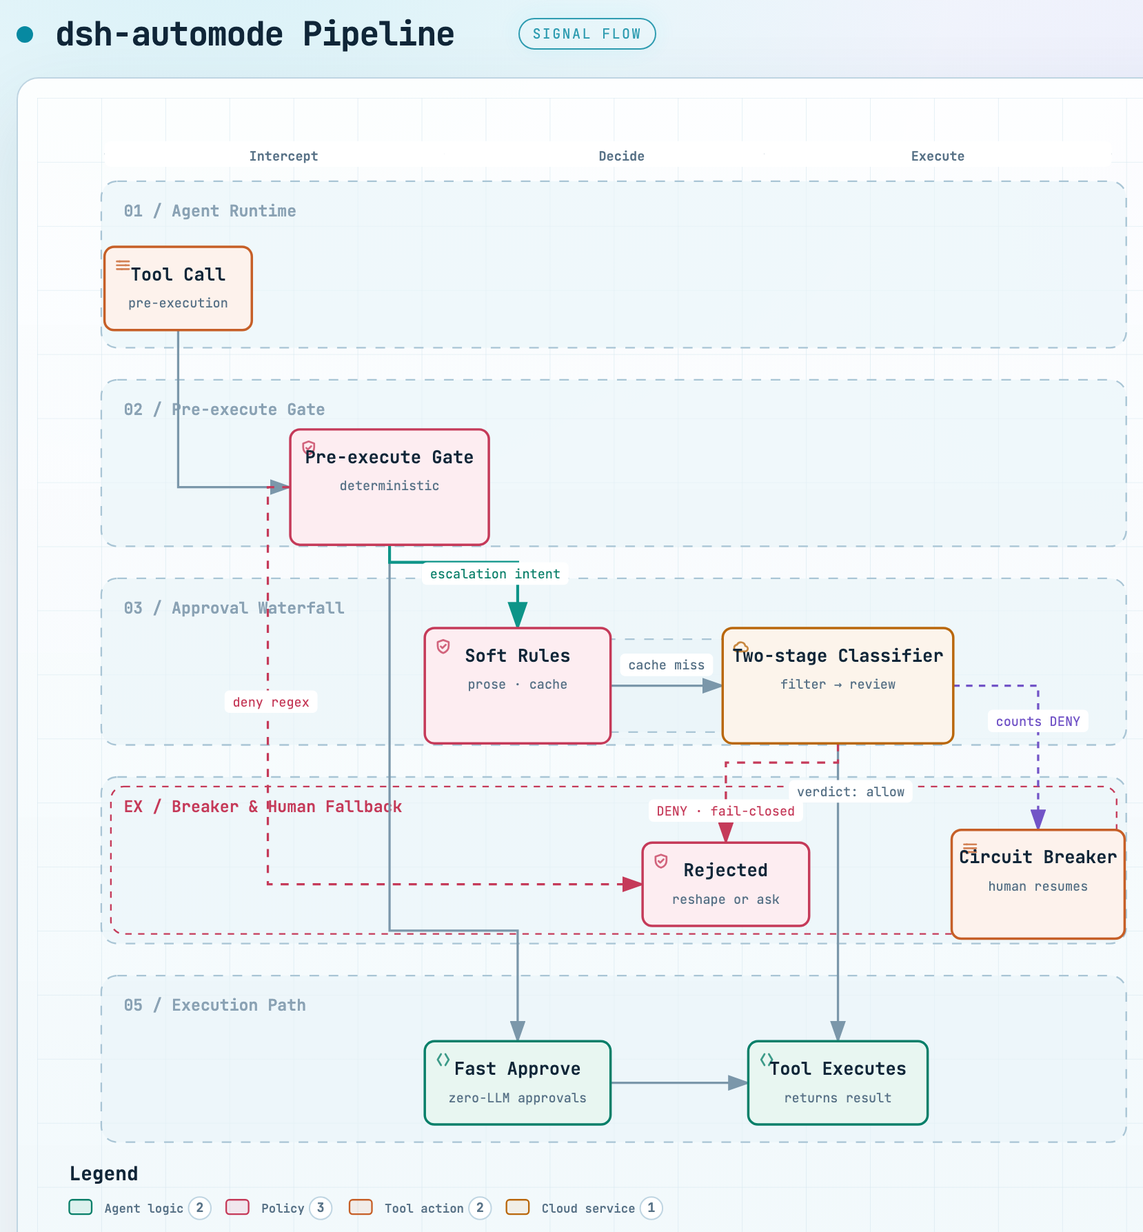
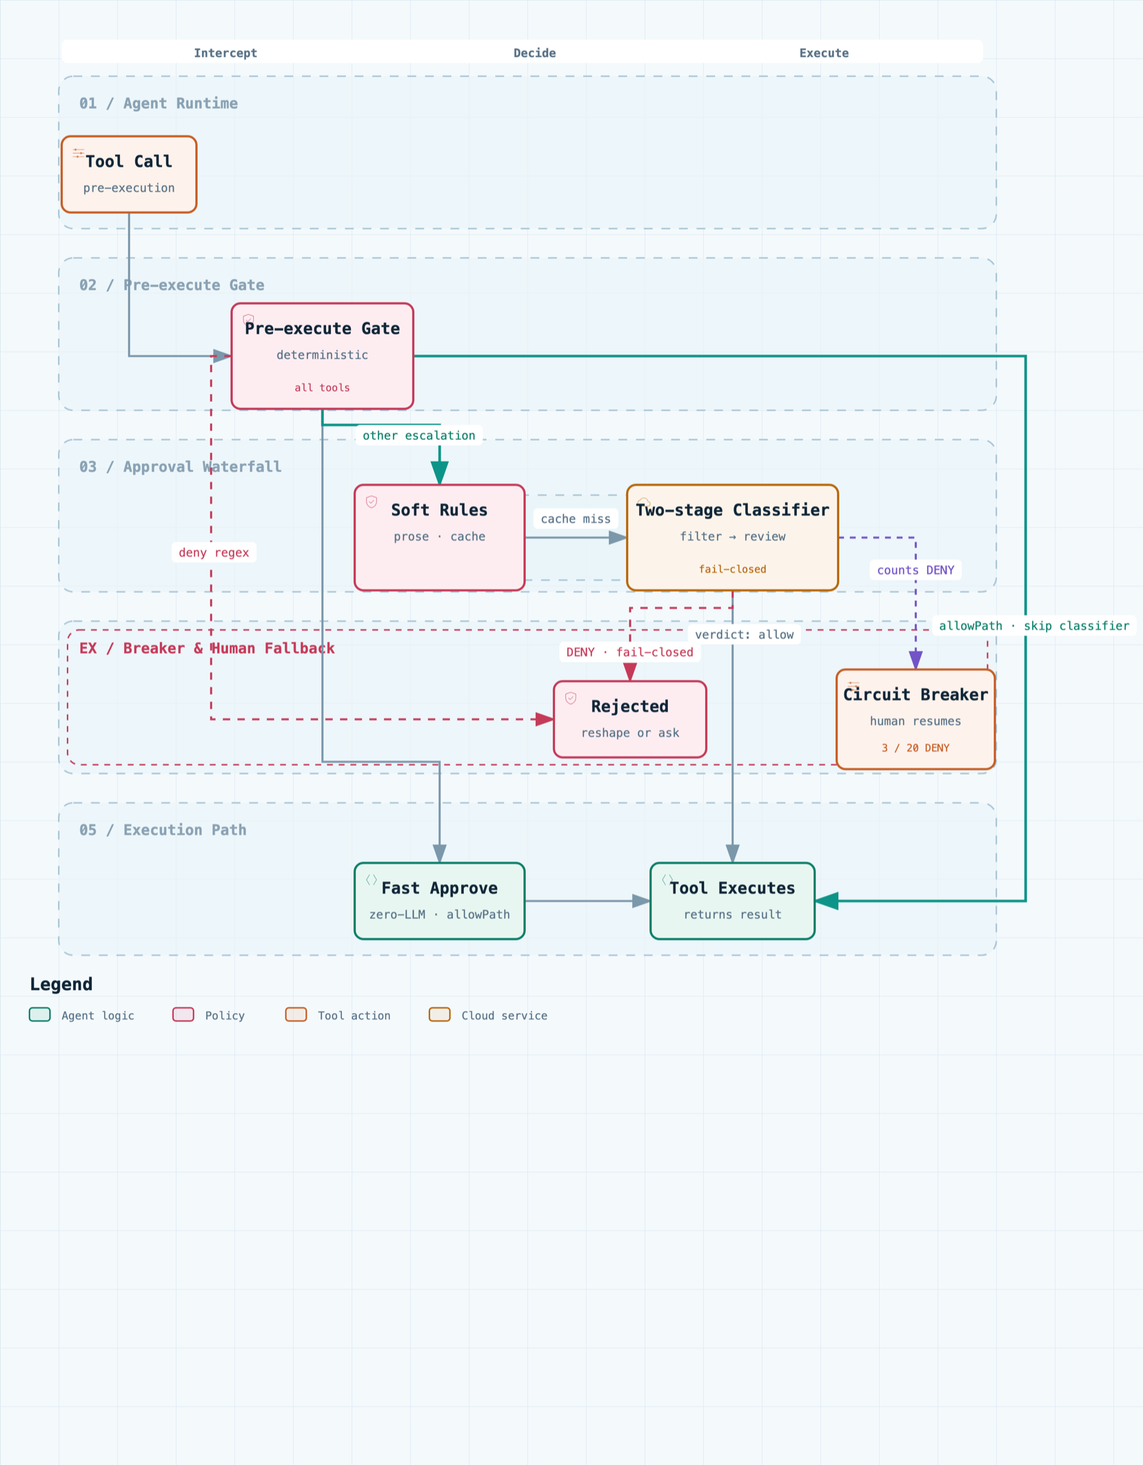
docs: update pipeline diagram for allowPath fast-path + v0.10.0 approval bridge
The flow diagram only showed "escalation intent -> Soft Rules -> Classifier",
implying every escalation reaches the LLM. Since allowPaths (08-29) and the
v0.10.0 approval bridge (08-31), allowlisted targets skip the classifier
entirely (file ops + bash writes), and allowPath escalations are auto-granted
by the approval answerer (approval-bridge) with no classifier and no
confirmation.

- detallow sublabel now reads "zero-LLM · allowPath".
- escalate edge relabeled "other escalation" (non-allowlisted escalations).
- new right-margin emphasis edge gate -> execute labeled
  "allowPath · skip classifier" (routed around the outside, bypassing the
  LLM verdict pipeline).
- cards document allowPath full-trust and the v0.10.0 callId bridge.
- en + zh workflow.json updated; HTML re-delivered (archify showcase 9/9,
  0 errors/warnings) and PNG re-exported via the page's own rasterizer.

Note: vertical page overflow in visual-check is pre-existing (the original
780x1000 composition overflows every laptop viewport the same way); the
diagram itself validates cleanly.

diff --git a/docs/auto-mode-flow.html b/docs/auto-mode-flow.html
@@ -4981,12 +4981,13 @@
         <path data-edge-from="toolcall" data-edge-to="gate" data-edge-key="0" data-edge-id="intercept" data-composition-points="88,145;88,243;158,243" d="M 88 145 L 88 243 L 158 243" class="a-default" stroke-width="1.4" marker-end="url(#arrowhead)"/>
         <path data-edge-from="gate" data-edge-to="detallow" data-edge-key="1" data-edge-id="fastpath" data-composition-points="220,279;220,520;300,520;300,589" d="M 220 279 L 220 520 L 300 520 L 300 589" class="a-default" stroke-width="1.4" marker-end="url(#arrowhead)"/>
         <path data-edge-from="detallow" data-edge-to="execute" data-edge-key="2" data-edge-id="torun" data-composition-points="358,615;444,615" d="M 358 615 L 444 615" class="a-default" stroke-width="1.4" marker-end="url(#arrowhead)"/>
-        <path data-edge-from="gate" data-edge-to="softrules" data-edge-label="escalation intent" data-edge-key="3" data-edge-id="escalate" data-composition-points="220,279;220,290;300,290;300,331" d="M 220 279 L 220 290 L 300 290 L 300 331" class="a-emphasis" stroke-width="1.8" marker-end="url(#arrowhead-emphasis)"/>
-        <path data-edge-from="gate" data-edge-to="rejected" data-edge-label="deny regex" data-edge-key="4" data-edge-id="harddeny" data-composition-points="158,243;144,243;144,491;378,491" d="M 158 243 L 144 243 L 144 491 L 378 491" class="a-security" stroke-width="1.4" marker-end="url(#arrowhead-security)"/>
-        <path data-edge-from="softrules" data-edge-to="classifier" data-edge-label="cache miss" data-edge-key="5" data-edge-id="review" data-composition-points="358,367;428,367" d="M 358 367 L 428 367" class="a-default" stroke-width="1.4" marker-end="url(#arrowhead)"/>
-        <path data-edge-from="classifier" data-edge-to="execute" data-edge-label="verdict: allow" data-edge-key="6" data-edge-id="allowed" data-composition-points="500,403;500,476;500,476;500,589" d="M 500 403 L 500 476 L 500 476 L 500 589" class="a-default" stroke-width="1.4" marker-end="url(#arrowhead)"/>
-        <path data-edge-from="classifier" data-edge-to="rejected" data-edge-label="DENY · fail-closed" data-edge-key="7" data-edge-id="denied" data-composition-points="500,403;500,415;430,415;430,465" d="M 500 403 L 500 415 L 430 415 L 430 465" class="a-security" stroke-width="1.4" marker-end="url(#arrowhead-security)"/>
-        <path data-edge-from="classifier" data-edge-to="breaker" data-edge-label="counts DENY" data-edge-key="8" data-edge-id="countdeny" data-composition-points="572,367;625,367;625,437;625,457" d="M 572 367 L 625 367 L 625 437 L 625 457" class="a-dashed" stroke-width="1.4" marker-end="url(#arrowhead-dashed)"/>
+        <path data-edge-from="gate" data-edge-to="softrules" data-edge-label="other escalation" data-edge-key="3" data-edge-id="escalate" data-composition-points="220,279;220,290;300,290;300,331" d="M 220 279 L 220 290 L 300 290 L 300 331" class="a-emphasis" stroke-width="1.8" marker-end="url(#arrowhead-emphasis)"/>
+        <path data-edge-from="gate" data-edge-to="execute" data-edge-label="allowPath · skip classifier" data-edge-key="4" data-edge-id="allowesc" data-composition-points="282,243;700,243;700,615;556,615" d="M 282 243 L 700 243 L 700 615 L 556 615" class="a-emphasis" stroke-width="1.8" marker-end="url(#arrowhead-emphasis)"/>
+        <path data-edge-from="gate" data-edge-to="rejected" data-edge-label="deny regex" data-edge-key="5" data-edge-id="harddeny" data-composition-points="158,243;144,243;144,491;378,491" d="M 158 243 L 144 243 L 144 491 L 378 491" class="a-security" stroke-width="1.4" marker-end="url(#arrowhead-security)"/>
+        <path data-edge-from="softrules" data-edge-to="classifier" data-edge-label="cache miss" data-edge-key="6" data-edge-id="review" data-composition-points="358,367;428,367" d="M 358 367 L 428 367" class="a-default" stroke-width="1.4" marker-end="url(#arrowhead)"/>
+        <path data-edge-from="classifier" data-edge-to="execute" data-edge-label="verdict: allow" data-edge-key="7" data-edge-id="allowed" data-composition-points="500,403;500,476;500,476;500,589" d="M 500 403 L 500 476 L 500 476 L 500 589" class="a-default" stroke-width="1.4" marker-end="url(#arrowhead)"/>
+        <path data-edge-from="classifier" data-edge-to="rejected" data-edge-label="DENY · fail-closed" data-edge-key="8" data-edge-id="denied" data-composition-points="500,403;500,415;430,415;430,465" d="M 500 403 L 500 415 L 430 415 L 430 465" class="a-security" stroke-width="1.4" marker-end="url(#arrowhead-security)"/>
+        <path data-edge-from="classifier" data-edge-to="breaker" data-edge-label="counts DENY" data-edge-key="9" data-edge-id="countdeny" data-composition-points="572,367;625,367;625,437;625,457" d="M 572 367 L 625 367 L 625 437 L 625 457" class="a-dashed" stroke-width="1.4" marker-end="url(#arrowhead-dashed)"/>
 
         <!-- Nodes -->
         <g id="node-toolcall" data-node-id="toolcall" data-node-label="Tool Call" tabindex="0" role="button" aria-label="Focus Tool Call, pre-execution, Agent Runtime › Intercept" aria-pressed="false" data-node-kind="messagebus" data-node-sublabel="pre-execution" data-node-context="Agent Runtime › Intercept">
@@ -5067,15 +5068,15 @@
         <text data-detail="fine" x="625" y="513" class="t-messagebus" font-size="7" text-anchor="middle">3 / 20 DENY</text>
         </g>
 
-        <g id="node-detallow" data-node-id="detallow" data-node-label="Fast Approve" tabindex="0" role="button" aria-label="Focus Fast Approve, zero-LLM approvals, Execution Path › Decide" aria-pressed="false" data-node-kind="backend" data-node-sublabel="zero-LLM approvals" data-node-context="Execution Path › Decide">
-          <title>Fast Approve · zero-LLM approvals · Execution Path › Decide</title>
+        <g id="node-detallow" data-node-id="detallow" data-node-label="Fast Approve" tabindex="0" role="button" aria-label="Focus Fast Approve, zero-LLM · allowPath, Execution Path › Decide" aria-pressed="false" data-node-kind="backend" data-node-sublabel="zero-LLM · allowPath" data-node-context="Execution Path › Decide">
+          <title>Fast Approve · zero-LLM · allowPath · Execution Path › Decide</title>
           <rect x="242" y="589" width="116" height="52" rx="6" class="c-mask"/>
           <rect x="242" y="589" width="116" height="52" rx="6" class="c-backend" stroke-width="1.5"/>
           <g aria-hidden="true" data-semantic-sigil="backend" class="semantic-sigil s-backend" transform="translate(248 595) scale(0.6875)">
             <path d="M6 3 3 8l3 5M10 3l3 5-3 5"/>
           </g>
           <text data-node-label data-detail-anchor x="300" y="610" class="t-primary" font-size="11" font-weight="600" text-anchor="middle">Fast Approve</text>
-          <text data-detail="context" x="300" y="627" class="t-muted" font-size="8" text-anchor="middle">zero-LLM approvals</text>
+          <text data-detail="context" x="300" y="627" class="t-muted" font-size="8" text-anchor="middle">zero-LLM · allowPath</text>
         </g>
 
         <g id="node-execute" data-node-id="execute" data-node-label="Tool Executes" tabindex="0" role="button" aria-label="Focus Tool Executes, returns result, Execution Path › Execute" aria-pressed="false" data-node-kind="backend" data-node-sublabel="returns result" data-node-context="Execution Path › Execute">
@@ -5093,27 +5094,31 @@
 
 
 
-        <g data-detail="context" data-edge-from="gate" data-edge-to="softrules" data-edge-label="escalation intent" data-edge-key="3" data-edge-id="escalate">
-          <rect x="240.2" y="290" width="91.6" height="14" rx="3" class="c-mask"/>
-          <text x="286" y="300" class="t-backend" font-size="8" text-anchor="middle">escalation intent</text>
+        <g data-detail="context" data-edge-from="gate" data-edge-to="softrules" data-edge-label="other escalation" data-edge-key="3" data-edge-id="escalate">
+          <rect x="242.6" y="290" width="86.8" height="14" rx="3" class="c-mask"/>
+          <text x="286" y="300" class="t-backend" font-size="8" text-anchor="middle">other escalation</text>
         </g>
-        <g data-detail="context" data-edge-from="gate" data-edge-to="rejected" data-edge-label="deny regex" data-edge-key="4" data-edge-id="harddeny">
+        <g data-detail="context" data-edge-from="gate" data-edge-to="execute" data-edge-label="allowPath · skip classifier" data-edge-key="4" data-edge-id="allowesc">
+          <rect x="636.2" y="420" width="139.6" height="14" rx="3" class="c-mask"/>
+          <text x="706" y="430" class="t-backend" font-size="8" text-anchor="middle">allowPath · skip classifier</text>
+        </g>
+        <g data-detail="context" data-edge-from="gate" data-edge-to="rejected" data-edge-label="deny regex" data-edge-key="5" data-edge-id="harddeny">
           <rect x="117" y="370" width="58" height="14" rx="3" class="c-mask"/>
           <text x="146" y="380" class="t-security" font-size="8" text-anchor="middle">deny regex</text>
         </g>
-        <g data-detail="context" data-edge-from="softrules" data-edge-to="classifier" data-edge-label="cache miss" data-edge-key="5" data-edge-id="review">
+        <g data-detail="context" data-edge-from="softrules" data-edge-to="classifier" data-edge-label="cache miss" data-edge-key="6" data-edge-id="review">
           <rect x="364" y="347" width="58" height="14" rx="3" class="c-mask"/>
           <text x="393" y="357" class="t-muted" font-size="8" text-anchor="middle">cache miss</text>
         </g>
-        <g data-detail="context" data-edge-from="classifier" data-edge-to="execute" data-edge-label="verdict: allow" data-edge-key="6" data-edge-id="allowed">
+        <g data-detail="context" data-edge-from="classifier" data-edge-to="execute" data-edge-label="verdict: allow" data-edge-key="7" data-edge-id="allowed">
           <rect x="469.4" y="426" width="77.2" height="14" rx="3" class="c-mask"/>
           <text x="508" y="436" class="t-muted" font-size="8" text-anchor="middle">verdict: allow</text>
         </g>
-        <g data-detail="context" data-edge-from="classifier" data-edge-to="rejected" data-edge-label="DENY · fail-closed" data-edge-key="7" data-edge-id="denied">
+        <g data-detail="context" data-edge-from="classifier" data-edge-to="rejected" data-edge-label="DENY · fail-closed" data-edge-key="8" data-edge-id="denied">
           <rect x="381.8" y="438" width="96.39999999999999" height="14" rx="3" class="c-mask"/>
           <text x="430" y="448" class="t-security" font-size="8" text-anchor="middle">DENY · fail-closed</text>
         </g>
-        <g data-detail="context" data-edge-from="classifier" data-edge-to="breaker" data-edge-label="counts DENY" data-edge-key="8" data-edge-id="countdeny">
+        <g data-detail="context" data-edge-from="classifier" data-edge-to="breaker" data-edge-label="counts DENY" data-edge-key="9" data-edge-id="countdeny">
           <rect x="593.6" y="382" width="62.8" height="14" rx="3" class="c-mask"/>
           <text x="625" y="392" class="t-database" font-size="8" text-anchor="middle">counts DENY</text>
         </g>
@@ -5331,6 +5336,8 @@
           <li>&bull; Deny regexes hard-reject before any LLM call</li>
           <li>&bull; Allow prefix-globs approve with zero LLM cost</li>
           <li>&bull; Fast Approve = read-only tools, allow globs, in-tree ops</li>
+          <li>&bull; Targets inside config.allowPaths (file ops + bash write-commands) skip the classifier entirely</li>
+          <li>&bull; v0.10.0: allowPath escalations are auto-granted by the approval answerer via the call&#39;s callId (approval-bridge) — no classifier, no confirmation</li>
           <li>&bull; Unmatched non-escalating calls pass through to the DSH sandbox</li>
         </ul>
       </div>

diff --git a/docs/auto-mode-flow.zh.html b/docs/auto-mode-flow.zh.html
@@ -4981,12 +4981,13 @@
         <path data-edge-from="toolcall" data-edge-to="gate" data-edge-key="0" data-edge-id="intercept" data-composition-points="88,145;88,243;158,243" d="M 88 145 L 88 243 L 158 243" class="a-default" stroke-width="1.4" marker-end="url(#arrowhead)"/>
         <path data-edge-from="gate" data-edge-to="detallow" data-edge-key="1" data-edge-id="fastpath" data-composition-points="220,279;220,520;300,520;300,589" d="M 220 279 L 220 520 L 300 520 L 300 589" class="a-default" stroke-width="1.4" marker-end="url(#arrowhead)"/>
         <path data-edge-from="detallow" data-edge-to="execute" data-edge-key="2" data-edge-id="torun" data-composition-points="358,615;444,615" d="M 358 615 L 444 615" class="a-default" stroke-width="1.4" marker-end="url(#arrowhead)"/>
-        <path data-edge-from="gate" data-edge-to="softrules" data-edge-label="升级意图" data-edge-key="3" data-edge-id="escalate" data-composition-points="220,279;220,290;300,290;300,331" d="M 220 279 L 220 290 L 300 290 L 300 331" class="a-emphasis" stroke-width="1.8" marker-end="url(#arrowhead-emphasis)"/>
-        <path data-edge-from="gate" data-edge-to="rejected" data-edge-label="命中 deny 正则" data-edge-key="4" data-edge-id="harddeny" data-composition-points="158,243;144,243;144,491;374,491" d="M 158 243 L 144 243 L 144 491 L 374 491" class="a-security" stroke-width="1.4" marker-end="url(#arrowhead-security)"/>
-        <path data-edge-from="softrules" data-edge-to="classifier" data-edge-label="缓存未命中" data-edge-key="5" data-edge-id="review" data-composition-points="358,367;428,367" d="M 358 367 L 428 367" class="a-default" stroke-width="1.4" marker-end="url(#arrowhead)"/>
-        <path data-edge-from="classifier" data-edge-to="execute" data-edge-label="判决：放行" data-edge-key="6" data-edge-id="allowed" data-composition-points="500,403;500,476;500,476;500,589" d="M 500 403 L 500 476 L 500 476 L 500 589" class="a-default" stroke-width="1.4" marker-end="url(#arrowhead)"/>
-        <path data-edge-from="classifier" data-edge-to="rejected" data-edge-label="DENY · fail-closed" data-edge-key="7" data-edge-id="denied" data-composition-points="500,403;500,415;430,415;430,465" d="M 500 403 L 500 415 L 430 415 L 430 465" class="a-security" stroke-width="1.4" marker-end="url(#arrowhead-security)"/>
-        <path data-edge-from="classifier" data-edge-to="breaker" data-edge-label="计入熔断计数" data-edge-key="8" data-edge-id="countdeny" data-composition-points="572,367;625,367;625,437;625,457" d="M 572 367 L 625 367 L 625 437 L 625 457" class="a-dashed" stroke-width="1.4" marker-end="url(#arrowhead-dashed)"/>
+        <path data-edge-from="gate" data-edge-to="softrules" data-edge-label="其他提权" data-edge-key="3" data-edge-id="escalate" data-composition-points="220,279;220,290;300,290;300,331" d="M 220 279 L 220 290 L 300 290 L 300 331" class="a-emphasis" stroke-width="1.8" marker-end="url(#arrowhead-emphasis)"/>
+        <path data-edge-from="gate" data-edge-to="execute" data-edge-label="allowPath · 跳过分类器" data-edge-key="4" data-edge-id="allowesc" data-composition-points="282,243;700,243;700,615;556,615" d="M 282 243 L 700 243 L 700 615 L 556 615" class="a-emphasis" stroke-width="1.8" marker-end="url(#arrowhead-emphasis)"/>
+        <path data-edge-from="gate" data-edge-to="rejected" data-edge-label="命中 deny 正则" data-edge-key="5" data-edge-id="harddeny" data-composition-points="158,243;144,243;144,491;374,491" d="M 158 243 L 144 243 L 144 491 L 374 491" class="a-security" stroke-width="1.4" marker-end="url(#arrowhead-security)"/>
+        <path data-edge-from="softrules" data-edge-to="classifier" data-edge-label="缓存未命中" data-edge-key="6" data-edge-id="review" data-composition-points="358,367;428,367" d="M 358 367 L 428 367" class="a-default" stroke-width="1.4" marker-end="url(#arrowhead)"/>
+        <path data-edge-from="classifier" data-edge-to="execute" data-edge-label="判决：放行" data-edge-key="7" data-edge-id="allowed" data-composition-points="500,403;500,476;500,476;500,589" d="M 500 403 L 500 476 L 500 476 L 500 589" class="a-default" stroke-width="1.4" marker-end="url(#arrowhead)"/>
+        <path data-edge-from="classifier" data-edge-to="rejected" data-edge-label="DENY · fail-closed" data-edge-key="8" data-edge-id="denied" data-composition-points="500,403;500,415;430,415;430,465" d="M 500 403 L 500 415 L 430 415 L 430 465" class="a-security" stroke-width="1.4" marker-end="url(#arrowhead-security)"/>
+        <path data-edge-from="classifier" data-edge-to="breaker" data-edge-label="计入熔断计数" data-edge-key="9" data-edge-id="countdeny" data-composition-points="572,367;625,367;625,437;625,457" d="M 572 367 L 625 367 L 625 437 L 625 457" class="a-dashed" stroke-width="1.4" marker-end="url(#arrowhead-dashed)"/>
 
         <!-- Nodes -->
         <g id="node-toolcall" data-node-id="toolcall" data-node-label="工具调用" tabindex="0" role="button" aria-label="Focus 工具调用, 执行前拦截, Agent 运行时 › 拦截" aria-pressed="false" data-node-kind="messagebus" data-node-sublabel="执行前拦截" data-node-context="Agent 运行时 › 拦截">
@@ -5067,15 +5068,15 @@
         <text data-detail="fine" x="625" y="513" class="t-messagebus" font-size="7" text-anchor="middle">3 / 20 DENY</text>
         </g>
 
-        <g id="node-detallow" data-node-id="detallow" data-node-label="快速放行" tabindex="0" role="button" aria-label="Focus 快速放行, 零 LLM 开销, 执行路径 › 判定" aria-pressed="false" data-node-kind="backend" data-node-sublabel="零 LLM 开销" data-node-context="执行路径 › 判定">
-          <title>快速放行 · 零 LLM 开销 · 执行路径 › 判定</title>
+        <g id="node-detallow" data-node-id="detallow" data-node-label="快速放行" tabindex="0" role="button" aria-label="Focus 快速放行, 零 LLM · allowPath, 执行路径 › 判定" aria-pressed="false" data-node-kind="backend" data-node-sublabel="零 LLM · allowPath" data-node-context="执行路径 › 判定">
+          <title>快速放行 · 零 LLM · allowPath · 执行路径 › 判定</title>
           <rect x="242" y="589" width="116" height="52" rx="6" class="c-mask"/>
           <rect x="242" y="589" width="116" height="52" rx="6" class="c-backend" stroke-width="1.5"/>
           <g aria-hidden="true" data-semantic-sigil="backend" class="semantic-sigil s-backend" transform="translate(248 595) scale(0.6875)">
             <path d="M6 3 3 8l3 5M10 3l3 5-3 5"/>
           </g>
           <text data-node-label data-detail-anchor x="300" y="610" class="t-primary" font-size="11" font-weight="600" text-anchor="middle">快速放行</text>
-          <text data-detail="context" x="300" y="627" class="t-muted" font-size="8" text-anchor="middle">零 LLM 开销</text>
+          <text data-detail="context" x="300" y="627" class="t-muted" font-size="8" text-anchor="middle">零 LLM · allowPath</text>
         </g>
 
         <g id="node-execute" data-node-id="execute" data-node-label="工具执行" tabindex="0" role="button" aria-label="Focus 工具执行, 结果返回 agent, 执行路径 › 执行" aria-pressed="false" data-node-kind="backend" data-node-sublabel="结果返回 agent" data-node-context="执行路径 › 执行">
@@ -5093,27 +5094,31 @@
 
 
 
-        <g data-detail="context" data-edge-from="gate" data-edge-to="softrules" data-edge-label="升级意图" data-edge-key="3" data-edge-id="escalate">
+        <g data-detail="context" data-edge-from="gate" data-edge-to="softrules" data-edge-label="其他提权" data-edge-key="3" data-edge-id="escalate">
           <rect x="261.8" y="290" width="48.4" height="14" rx="3" class="c-mask"/>
-          <text x="286" y="300" class="t-backend" font-size="8" text-anchor="middle">升级意图</text>
+          <text x="286" y="300" class="t-backend" font-size="8" text-anchor="middle">其他提权</text>
         </g>
-        <g data-detail="context" data-edge-from="gate" data-edge-to="rejected" data-edge-label="命中 deny 正则" data-edge-key="4" data-edge-id="harddeny">
+        <g data-detail="context" data-edge-from="gate" data-edge-to="execute" data-edge-label="allowPath · 跳过分类器" data-edge-key="4" data-edge-id="allowesc">
+          <rect x="648.2" y="420" width="115.6" height="14" rx="3" class="c-mask"/>
+          <text x="706" y="430" class="t-backend" font-size="8" text-anchor="middle">allowPath · 跳过分类器</text>
+        </g>
+        <g data-detail="context" data-edge-from="gate" data-edge-to="rejected" data-edge-label="命中 deny 正则" data-edge-key="5" data-edge-id="harddeny">
           <rect x="107.4" y="370" width="77.2" height="14" rx="3" class="c-mask"/>
           <text x="146" y="380" class="t-security" font-size="8" text-anchor="middle">命中 deny 正则</text>
         </g>
-        <g data-detail="context" data-edge-from="softrules" data-edge-to="classifier" data-edge-label="缓存未命中" data-edge-key="5" data-edge-id="review">
+        <g data-detail="context" data-edge-from="softrules" data-edge-to="classifier" data-edge-label="缓存未命中" data-edge-key="6" data-edge-id="review">
           <rect x="364" y="347" width="58" height="14" rx="3" class="c-mask"/>
           <text x="393" y="357" class="t-muted" font-size="8" text-anchor="middle">缓存未命中</text>
         </g>
-        <g data-detail="context" data-edge-from="classifier" data-edge-to="execute" data-edge-label="判决：放行" data-edge-key="6" data-edge-id="allowed">
+        <g data-detail="context" data-edge-from="classifier" data-edge-to="execute" data-edge-label="判决：放行" data-edge-key="7" data-edge-id="allowed">
           <rect x="479" y="426" width="58" height="14" rx="3" class="c-mask"/>
           <text x="508" y="436" class="t-muted" font-size="8" text-anchor="middle">判决：放行</text>
         </g>
-        <g data-detail="context" data-edge-from="classifier" data-edge-to="rejected" data-edge-label="DENY · fail-closed" data-edge-key="7" data-edge-id="denied">
+        <g data-detail="context" data-edge-from="classifier" data-edge-to="rejected" data-edge-label="DENY · fail-closed" data-edge-key="8" data-edge-id="denied">
           <rect x="381.8" y="438" width="96.39999999999999" height="14" rx="3" class="c-mask"/>
           <text x="430" y="448" class="t-security" font-size="8" text-anchor="middle">DENY · fail-closed</text>
         </g>
-        <g data-detail="context" data-edge-from="classifier" data-edge-to="breaker" data-edge-label="计入熔断计数" data-edge-key="8" data-edge-id="countdeny">
+        <g data-detail="context" data-edge-from="classifier" data-edge-to="breaker" data-edge-label="计入熔断计数" data-edge-key="9" data-edge-id="countdeny">
           <rect x="591.2" y="382" width="67.6" height="14" rx="3" class="c-mask"/>
           <text x="625" y="392" class="t-database" font-size="8" text-anchor="middle">计入熔断计数</text>
         </g>
@@ -5331,6 +5336,8 @@
           <li>&bull; deny 正则在任何 LLM 调用之前硬拒绝</li>
           <li>&bull; allow 前缀通配零 LLM 成本直接放行</li>
           <li>&bull; 快速放行 = 只读工具 + allow 规则 + 树内文件操作</li>
+          <li>&bull; 目标落在 config.allowPaths 内（文件操作 + bash 写命令）完全跳过分类器</li>
+          <li>&bull; v0.10.0：allowPath 提权由 approval answerer 依调用 callId 自动放行（approval-bridge）——不经分类器、无需确认</li>
           <li>&bull; 未匹配且不升级的调用直通 DSH 沙箱</li>
         </ul>
       </div>
